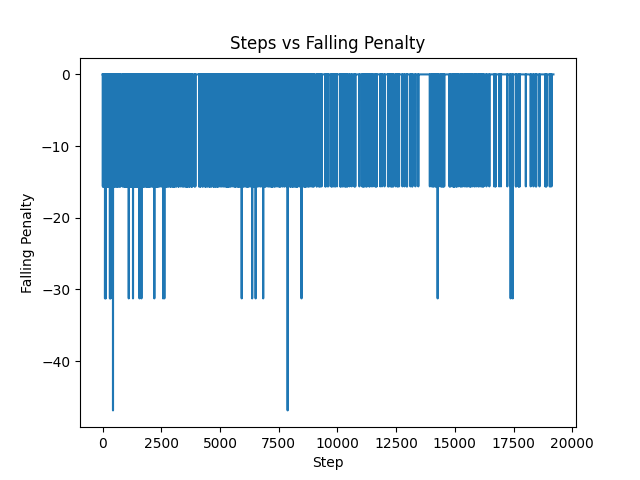
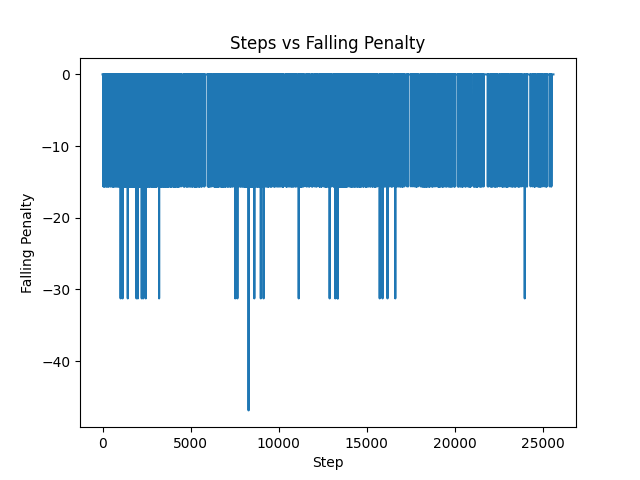
success and down arm starting pos

diff --git a/source/gr1_train/gr1_train/tasks/direct/gr1_train/gr1_train_env.py b/source/gr1_train/gr1_train/tasks/direct/gr1_train/gr1_train_env.py
@@ -335,7 +335,7 @@ class Gr1TrainEnv(DirectRLEnv):
         # Palm facing block
         rew_success = self.cfg.reward_scale_success * (left_dist <= 0.15).to(dtype=torch.float32) * (dot > 0.5).to(dtype=torch.float32)
 
-        rew_pinky = self.cfg.reward_scale_contact_left_pinky * (torch.linalg.norm(self.force_finger.data.net_forces_w, dim=-1).squeeze(-1) + torch.linalg.norm(self.force_hand.data.net_forces_w, dim=-1).squeeze(-1))
+        rew_pinky = self.cfg.reward_scale_contact_left_pinky * torch.tanh((torch.linalg.norm(self.force_finger.data.net_forces_w, dim=-1).squeeze(-1) + torch.linalg.norm(self.force_hand.data.net_forces_w, dim=-1).squeeze(-1)) / 12)
 
         rew_falling_penalty = self.cfg.reward_scale_falling_penalty * (obj_z < 0.8).to(dtype=torch.float32)
         rew_time = self.cfg.reward_scale_time * self.episode_length_buf

diff --git a/source/gr1_train/gr1_train/tasks/direct/gr1_train/gr1_train_env_cfg.py b/source/gr1_train/gr1_train/tasks/direct/gr1_train/gr1_train_env_cfg.py
@@ -143,7 +143,7 @@ class Gr1TrainEnvCfg(DirectRLEnvCfg):
     # reward_scale_left_vel: float = -0.01
     # reward_scale_obj_vel: float = -0.7
     reward_scale_falling_penalty: float = -1000.0
-    reward_scale_contact_left_pinky: float = -0.1
+    reward_scale_contact_left_pinky: float = -2.0
     reward_object_orientation: float = -10.0
 
     reward_scale_time: float = -0.3
